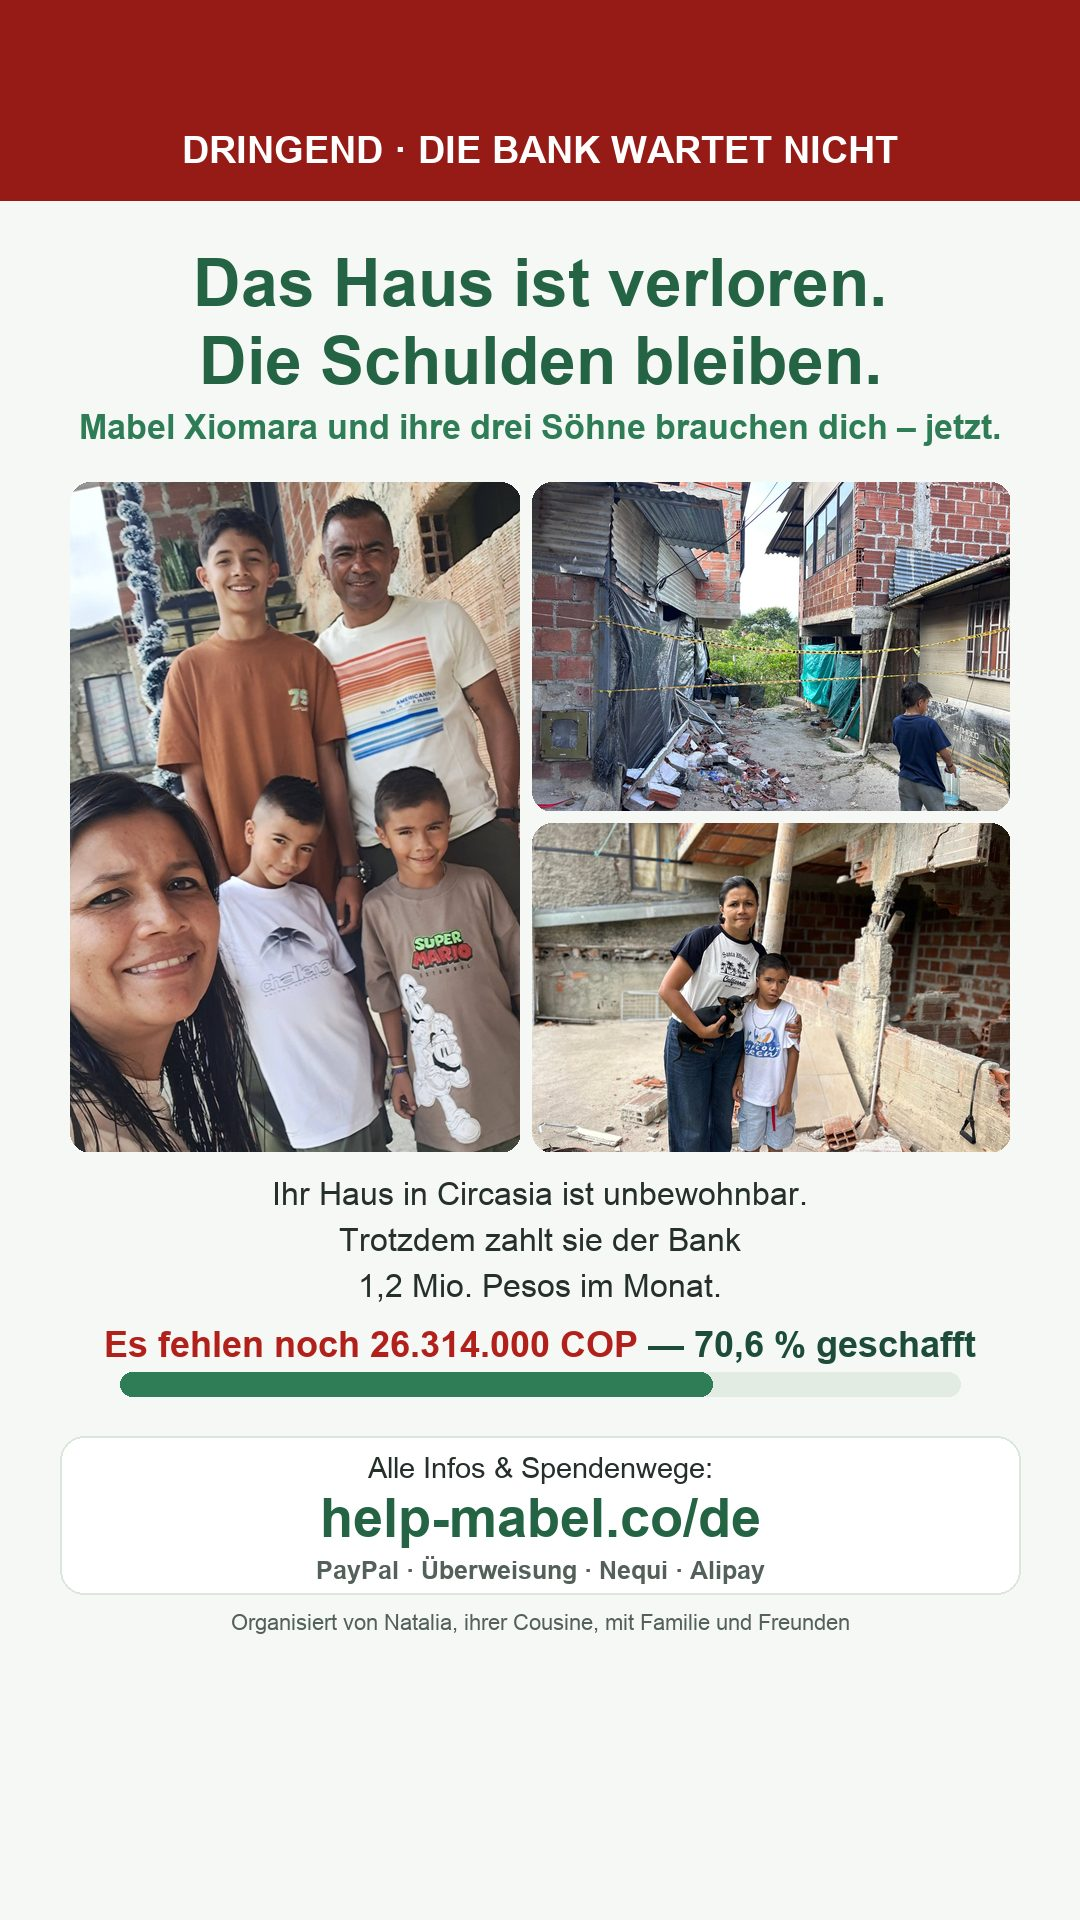
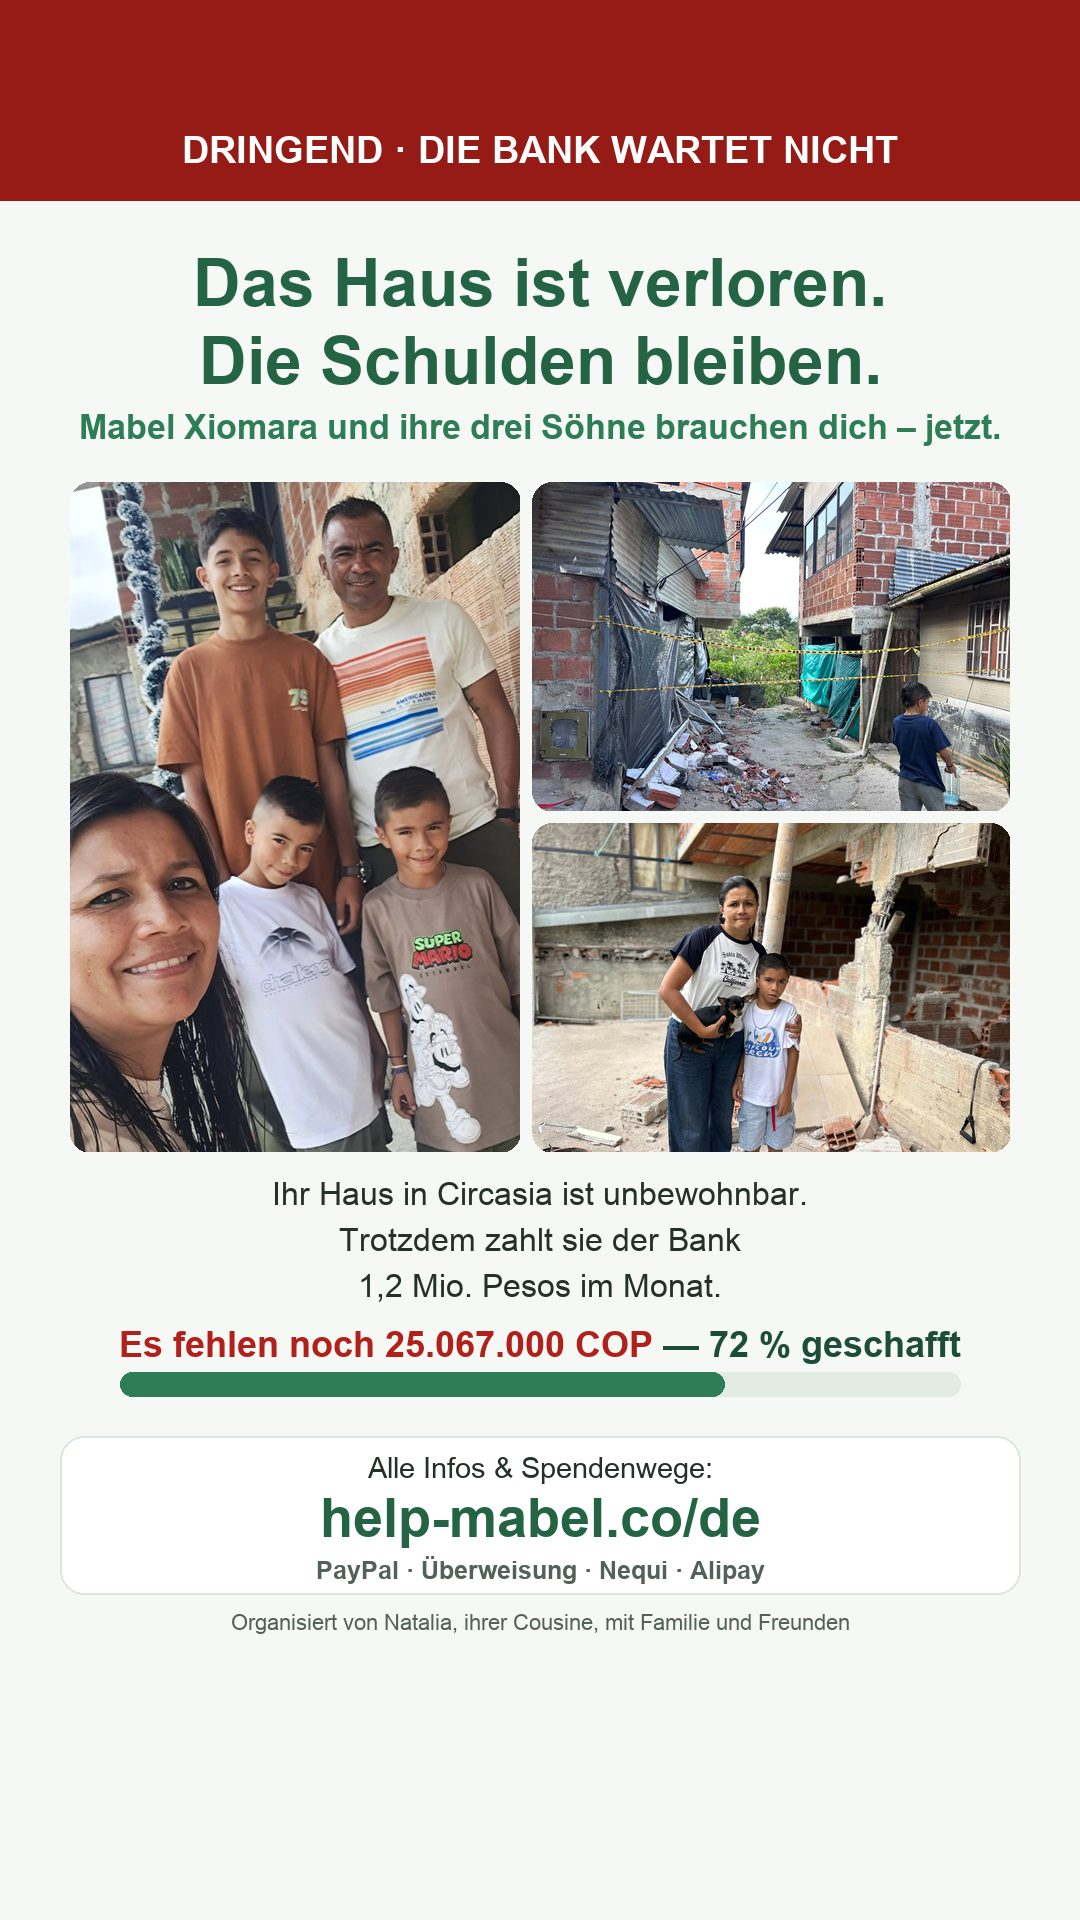
v=29: raised 64.333.000 (72 %; faltan $25.067.000 ≈ €6.970) — hoja del 25-ago, donaciones locales en Colombia; 12 gráficos regenerados incl. stories del botón «Compartir en tu estado» (?v=8)

Changed region(s): [[0.0917, 0.6875, 0.6111, 0.7188], [0.6417, 0.6875, 0.9167, 0.75]]

diff --git a/de/index.html b/de/index.html
@@ -107,10 +107,10 @@
 </header>
 
 <div class="progress-card">
-  <div class="raised">Noch <span id="ms-remaining">7.320 € (26.314.000 COP)</span> bis <span id="ms-label">Mabel schuldenfrei ist</span></div>
-  <div class="bar"><div class="fill" id="bar-fill" style="width:70.6%"></div></div>
-  <div class="goal-note" id="ms-line"><strong>70,6 % des Weges</strong> zum nächsten Ziel: 89.400.000 COP</div>
-  <div class="goal-note" id="total-line" style="margin-top:6px">Gemeinsam haben wir schon <span id="raised-pct">70,6 %</span> der <span id="first-goal">89,4 Millionen COP (≈ 24.850 €)</span> zusammen — es fehlen noch <span id="total-remaining">26,3 Millionen COP (≈ 7.320 €)</span>, damit Mabel Xiomara ohne Schulden neu anfangen kann.</div>
+  <div class="raised">Noch <span id="ms-remaining">6.970 € (25.067.000 COP)</span> bis <span id="ms-label">Mabel schuldenfrei ist</span></div>
+  <div class="bar"><div class="fill" id="bar-fill" style="width:72%"></div></div>
+  <div class="goal-note" id="ms-line"><strong>72 % des Weges</strong> zum nächsten Ziel: 89.400.000 COP</div>
+  <div class="goal-note" id="total-line" style="margin-top:6px">Gemeinsam haben wir schon <span id="raised-pct">72 %</span> der <span id="first-goal">89,4 Millionen COP (≈ 24.850 €)</span> zusammen — es fehlen noch <span id="total-remaining">25,1 Millionen COP (≈ 6.970 €)</span>, damit Mabel Xiomara ohne Schulden neu anfangen kann.</div>
 </div>
 
 <a class="btn" href="#spenden">💚 Ich möchte spenden</a>
@@ -493,7 +493,7 @@ einen Chat oder deine Moments（朋友圈）ein und sende sie.</p>
 
 <div class="sticky"><a class="btn" href="#spenden">💚 Jetzt spenden</a></div>
 
-<script src="../data.js?v=28"></script>
+<script src="../data.js?v=29"></script>
 <script>
 (function(){
   var c = window.CAMPAIGN; if (!c) return;
@@ -519,7 +519,7 @@ einen Chat oder deine Moments（朋友圈）ein und sende sie.</p>
 function shareStory(el){
   var orig = el.textContent;
   el.textContent = "Bild wird vorbereitet…";
-  fetch("../img/story-de.jpg?v=7").then(function(r){ return r.blob(); }).then(function(b){
+  fetch("../img/story-de.jpg?v=8").then(function(r){ return r.blob(); }).then(function(b){
     var f = new File([b], "hilfe-mabel.jpg", {type: "image/jpeg"});
     if (navigator.canShare && navigator.canShare({files: [f]})) {
       navigator.share({files: [f], text: "Das Haus von Mabel Xiomara in Kolumbien ist durch das Erdbeben verloren, aber die Bankschulden bleiben. So kannst du helfen: https://help-mabel.co/de/"})
@@ -527,9 +527,9 @@ function shareStory(el){
         .catch(function(){ el.textContent = orig; });
     } else {
       el.textContent = "Speichere das Bild und poste es in deiner Story 📲";
-      window.open("../img/story-de.jpg?v=7", "_blank");
+      window.open("../img/story-de.jpg?v=8", "_blank");
     }
-  }).catch(function(){ el.textContent = orig; window.open("../img/story-de.jpg?v=7", "_blank"); });
+  }).catch(function(){ el.textContent = orig; window.open("../img/story-de.jpg?v=8", "_blank"); });
   return false;
 }
 function copyText(t, el, ok){

diff --git a/en/index.html b/en/index.html
@@ -107,10 +107,10 @@
 </header>
 
 <div class="progress-card">
-  <div class="raised"><span id="ms-remaining">€7,320 (26,314,000 COP)</span> still needed for <span id="ms-label">clearing the whole debt</span></div>
-  <div class="bar"><div class="fill" id="bar-fill" style="width:70.6%"></div></div>
-  <div class="goal-note" id="ms-line"><strong>70.6% of the way</strong> to the next goal: 89,400,000 COP</div>
-  <div class="goal-note" id="total-line" style="margin-top:6px">Together we have already raised <span id="raised-pct">70.6%</span> of the <span id="first-goal">89.4 million COP (≈ €24,850)</span> — <span id="total-remaining">26.3 million COP (≈ €7,320)</span> to go for Mabel Xiomara to get a fresh start, free of debt.</div>
+  <div class="raised"><span id="ms-remaining">€6,970 (25,067,000 COP)</span> still needed for <span id="ms-label">clearing the whole debt</span></div>
+  <div class="bar"><div class="fill" id="bar-fill" style="width:72%"></div></div>
+  <div class="goal-note" id="ms-line"><strong>72% of the way</strong> to the next goal: 89,400,000 COP</div>
+  <div class="goal-note" id="total-line" style="margin-top:6px">Together we have already raised <span id="raised-pct">72%</span> of the <span id="first-goal">89.4 million COP (≈ €24,850)</span> — <span id="total-remaining">25.1 million COP (≈ €6,970)</span> to go for Mabel Xiomara to get a fresh start, free of debt.</div>
 </div>
 
 <a class="btn" href="#donate">💚 I want to donate</a>
@@ -482,7 +482,7 @@ chat or your Moments（朋友圈）and send.</p>
 
 <div class="sticky"><a class="btn" href="#donate">💚 Donate now</a></div>
 
-<script src="../data.js?v=28"></script>
+<script src="../data.js?v=29"></script>
 <script>
 (function(){
   var c = window.CAMPAIGN; if (!c) return;
@@ -508,7 +508,7 @@ chat or your Moments（朋友圈）and send.</p>
 function shareStory(el){
   var orig = el.textContent;
   el.textContent = "Preparing image…";
-  fetch("../img/story-en.jpg?v=7").then(function(r){ return r.blob(); }).then(function(b){
+  fetch("../img/story-en.jpg?v=8").then(function(r){ return r.blob(); }).then(function(b){
     var f = new File([b], "help-mabel.jpg", {type: "image/jpeg"});
     if (navigator.canShare && navigator.canShare({files: [f]})) {
       navigator.share({files: [f], text: "Mabel Xiomara's home in Colombia was lost in the earthquake, but the bank debt remains. How to help: https://help-mabel.co/en/"})
@@ -516,9 +516,9 @@ function shareStory(el){
         .catch(function(){ el.textContent = orig; });
     } else {
       el.textContent = "Save the image and post it to your story 📲";
-      window.open("../img/story-en.jpg?v=7", "_blank");
+      window.open("../img/story-en.jpg?v=8", "_blank");
     }
-  }).catch(function(){ el.textContent = orig; window.open("../img/story-en.jpg?v=7", "_blank"); });
+  }).catch(function(){ el.textContent = orig; window.open("../img/story-en.jpg?v=8", "_blank"); });
   return false;
 }
 function copyText(t, el, ok){

diff --git a/index.html b/index.html
@@ -123,10 +123,10 @@
 </header>
 
 <div class="progress-card">
-  <div class="raised">Faltan <span id="ms-remaining">$26.314.000</span> para <span id="ms-label">quedar libre de deuda</span></div>
-  <div class="bar"><div class="fill" id="bar-fill" style="width:70.6%"></div></div>
-  <div class="goal-note" id="ms-line"><strong>70,6 % del camino</strong> a la próxima meta: $89.400.000</div>
-  <div class="goal-note" id="total-line" style="margin-top:6px">Entre todos ya reunimos el <span id="raised-pct">70,6 %</span> de los <span id="first-goal">$89,4 millones</span> — faltan <span id="total-remaining">$26,3 millones</span> para que Mabel Xiomara pueda empezar de nuevo, libre de deudas.</div>
+  <div class="raised">Faltan <span id="ms-remaining">$25.067.000</span> para <span id="ms-label">quedar libre de deuda</span></div>
+  <div class="bar"><div class="fill" id="bar-fill" style="width:72%"></div></div>
+  <div class="goal-note" id="ms-line"><strong>72 % del camino</strong> a la próxima meta: $89.400.000</div>
+  <div class="goal-note" id="total-line" style="margin-top:6px">Entre todos ya reunimos el <span id="raised-pct">72 %</span> de los <span id="first-goal">$89,4 millones</span> — faltan <span id="total-remaining">$25,1 millones</span> para que Mabel Xiomara pueda empezar de nuevo, libre de deudas.</div>
 </div>
 
 <a class="btn" href="#donar">💚 Quiero donar</a>
@@ -498,7 +498,7 @@ un chat o en Momentos（朋友圈）y envíalo.</p>
 
 <div class="sticky"><a class="btn" href="#donar">💚 Donar ahora</a></div>
 
-<script src="data.js?v=28"></script>
+<script src="data.js?v=29"></script>
 <script>
 (function(){
   var c = window.CAMPAIGN; if (!c) return;
@@ -526,7 +526,7 @@ un chat o en Momentos（朋友圈）y envíalo.</p>
 function shareStory(el){
   var orig = el.textContent;
   el.textContent = "Preparando imagen…";
-  fetch("img/story-es.jpg?v=7").then(function(r){ return r.blob(); }).then(function(b){
+  fetch("img/story-es.jpg?v=8").then(function(r){ return r.blob(); }).then(function(b){
     var f = new File([b], "ayuda-mabel.jpg", {type: "image/jpeg"});
     if (navigator.canShare && navigator.canShare({files: [f]})) {
       navigator.share({files: [f], text: "La casa de Mabel Xiomara en Circasia se perdió en el terremoto, pero la deuda con el banco sigue. Cómo ayudar: https://help-mabel.co"})
@@ -534,9 +534,9 @@ function shareStory(el){
         .catch(function(){ el.textContent = orig; });
     } else {
       el.textContent = "Guarda la imagen y súbela a tu estado 📲";
-      window.open("img/story-es.jpg?v=7", "_blank");
+      window.open("img/story-es.jpg?v=8", "_blank");
     }
-  }).catch(function(){ el.textContent = orig; window.open("img/story-es.jpg?v=7", "_blank"); });
+  }).catch(function(){ el.textContent = orig; window.open("img/story-es.jpg?v=8", "_blank"); });
   return false;
 }
 function copyText(t, el, ok){

diff --git a/wechat/index.html b/wechat/index.html
@@ -56,10 +56,10 @@
   The goal: clearing the whole 89.4-million-COP debt.</p>
 
   <div class="progress-card">
-    <div class="raised"><span id="ms-remaining">26,314,000 COP</span> still needed for <span id="ms-label">clearing the whole debt</span></div>
-    <div class="bar"><div class="fill" id="bar-fill" style="width:70.6%"></div></div>
-    <div class="goal-note" id="ms-line"><strong>70.6% of the way</strong> to the next goal: 89,400,000 COP</div>
-    <div class="goal-note" style="margin-top:6px">Together we have already raised <span id="raised-pct">70.6%</span> of the <span id="first-goal">89.4 million COP</span> — <span id="total-remaining">26.3 million COP</span> to go for Mabel Xiomara to get a fresh start, free of debt.</div>
+    <div class="raised"><span id="ms-remaining">25,067,000 COP</span> still needed for <span id="ms-label">clearing the whole debt</span></div>
+    <div class="bar"><div class="fill" id="bar-fill" style="width:72%"></div></div>
+    <div class="goal-note" id="ms-line"><strong>72% of the way</strong> to the next goal: 89,400,000 COP</div>
+    <div class="goal-note" style="margin-top:6px">Together we have already raised <span id="raised-pct">72%</span> of the <span id="first-goal">89.4 million COP</span> — <span id="total-remaining">25.1 million COP</span> to go for Mabel Xiomara to get a fresh start, free of debt.</div>
   </div>
 
   <p>Alipay donations are received by <strong>Natalia</strong>, Mabel Xiomara's cousin,
@@ -84,7 +84,7 @@
   <p class="note">Questions? Write to us: <a href="#" onclick="var m=['nataliavallejomoreno','gmail.com'].join('@');this.textContent=m;this.href='mailto:'+m;this.onclick=null;return false" style="color:var(--green-deep)">show contact email</a></p>
 </main>
 
-<script src="../data.js?v=28"></script>
+<script src="../data.js?v=29"></script>
 <script>
 (function(){
   var c = window.CAMPAIGN; if (!c) return;

diff --git a/data.js b/data.js
@@ -2,9 +2,9 @@
 // OJO: tras CUALQUIER cambio en este archivo, subir el número de versión (?v=N)
 // en las etiquetas <script src="data.js?v=N"> de las 4 páginas — mientras el
 // Browser Cache TTL de Cloudflare siga en 4h, es la única forma de que los
-// navegadores con caché vieja carguen el archivo nuevo. Versión actual: v=28 (v=16 y v=17 quedaron cacheados con contenido viejo en Cloudflare el 17-ago: alguien pidió las URLs versionadas antes del push).
+// navegadores con caché vieja carguen el archivo nuevo. Versión actual: v=29 (v=16 y v=17 quedaron cacheados con contenido viejo en Cloudflare el 17-ago: alguien pidió las URLs versionadas antes del push).
 window.CAMPAIGN = {
-  raised: 63086000,             // COP recaudados (tabla de la familia sin las filas de costos + PayPal €192 + Wise A$500 + China ¥850) — 24-ago-2026 tarde
+  raised: 64333000,             // COP recaudados (tabla de la familia sin las filas de costos + PayPal €192 + Wise A$500 + China ¥850) — 25-ago-2026
   firstGoal: 89400000,          // meta = la deuda completa (reencuadre 14-ago; hitos de 15M y 30M superados)
   monthly: 1824000,             // cuota del marco público 89,4M = 49 cuotas (desde el 21-ago la cuota real es $1.216.000 — el crédito pequeño quedó saldado; se revisará cuando el banco informe el saldo)
   copPerEur: 3597,              // tasa COP por EUR (verificada 21 ago 2026; revisar mensualmente)
